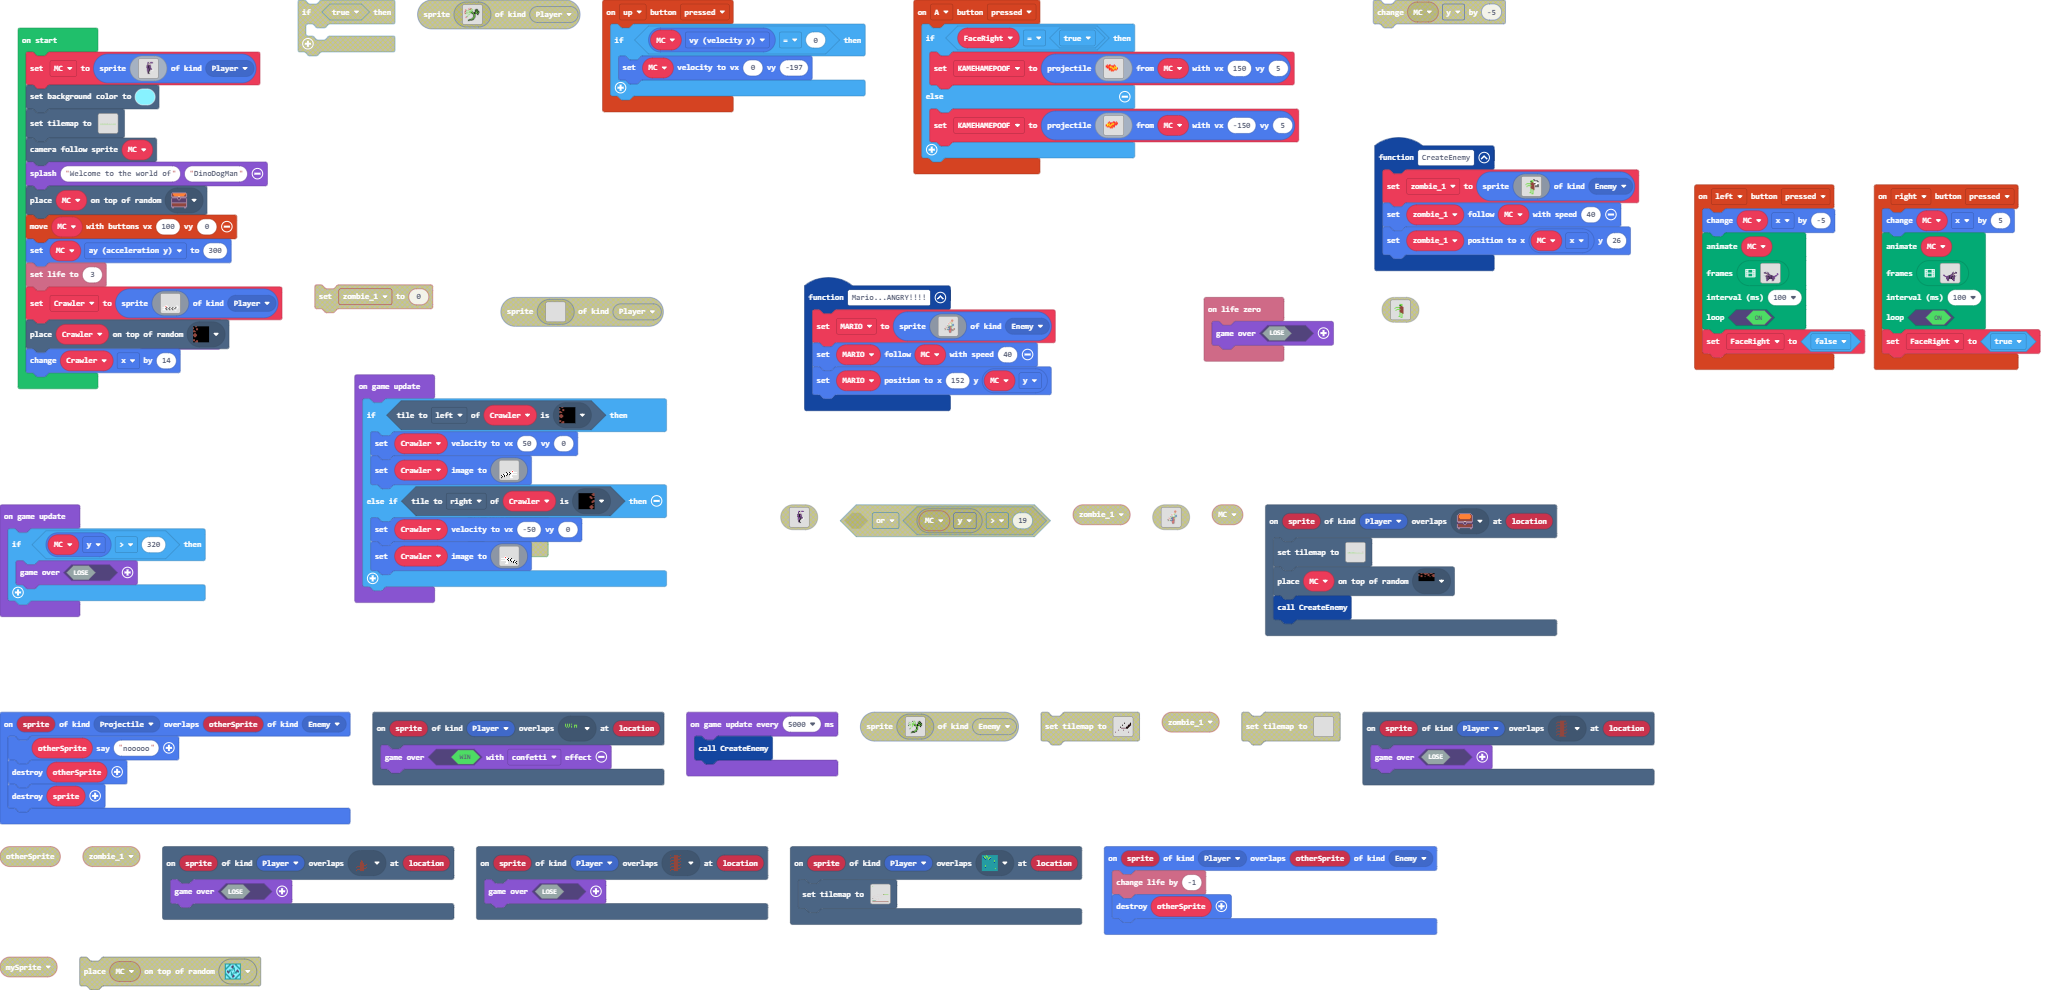
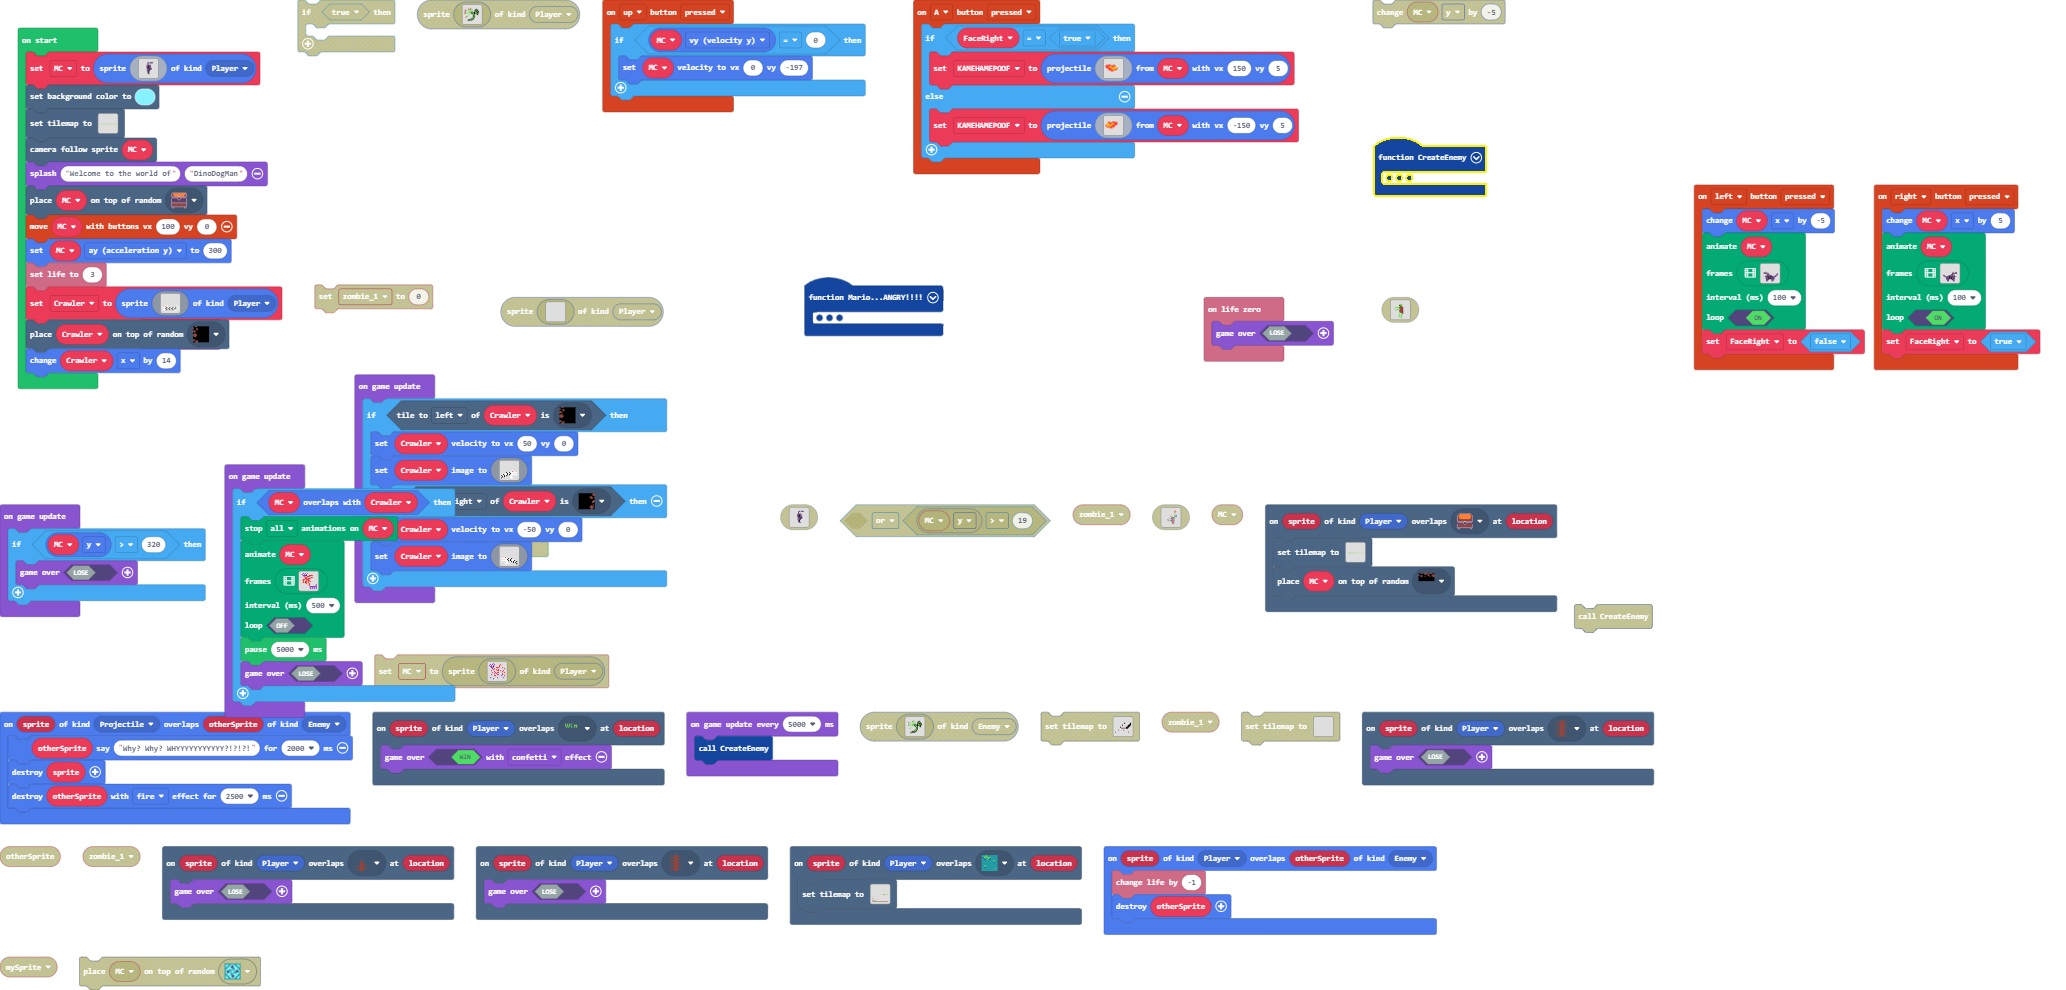
Update pxt.json, main.blocks, main.ts

diff --git a/main.ts b/main.ts
@@ -236,7 +236,7 @@ scene.onOverlapTile(SpriteKind.Player, sprites.castle.tileDarkGrass3, function (
         `, [myTiles.transparency16,myTiles.tile3,sprites.builtin.forestTiles0,myTiles.tile10,sprites.dungeon.floorLight0,myTiles.tile4,sprites.castle.tileGrass1,sprites.dungeon.floorLight1,myTiles.tile7], TileScale.Sixteen))
 })
 scene.onOverlapTile(SpriteKind.Player, sprites.dungeon.chestClosed, function (sprite, location) {
[2 lines of base64/hex data omitted]
         ....................................................................................................
         ......................................2.............................................................
         .....................................2..............................................................
@@ -248,9 +248,9 @@ scene.onOverlapTile(SpriteKind.Player, sprites.dungeon.chestClosed, function (sp
         ............................................................................................2....2.2
         .............................2.................................................................2...2
         ........................2.....................................................................2..2..
-        ....222.............................................................................................
+        ....................................................................................................
         .............................................................................................22..2..
-        22.............................................................................................2....
+        2..............................................................................................2....
         .......2..22..22222.........222222222222222..................................................2...2..
         2222222222222222222222222222222222222222222222222222222...............2222..........................
         2222222222222222222222222222222222222222222222222222222222222222222222222222222..............2..2222
@@ -259,7 +259,6 @@ scene.onOverlapTile(SpriteKind.Player, sprites.dungeon.chestClosed, function (sp
         2222222222222222222222222222222222222222222222222222222222222222222222222222222222222222222222222222
         `, [myTiles.transparency16,myTiles.tile1,myTiles.tile3,myTiles.tile6,sprites.castle.tileGrass1,sprites.builtin.forestTiles0,sprites.dungeon.chestClosed,sprites.dungeon.chestOpen,sprites.dungeon.floorLight2,sprites.dungeon.floorDark2,sprites.builtin.forestTiles18,myTiles.tile7,sprites.castle.tileDarkGrass3], TileScale.Sixteen))
     tiles.placeOnRandomTile(MC, sprites.builtin.forestTiles18)
-    CreateEnemy()
 })
 controller.right.onEvent(ControllerButtonEvent.Pressed, function () {
     MC.x += 5
@@ -366,9 +365,9 @@ scene.onOverlapTile(SpriteKind.Player, myTiles.tile1, function (sprite, location
     game.over(false)
 })
 sprites.onOverlap(SpriteKind.Projectile, SpriteKind.Enemy, function (sprite, otherSprite) {
-    otherSprite.say("nooooo")
-    otherSprite.destroy()
+    otherSprite.say("Why? Why? WHYYYYYYYYYYY?!?!?!", 2000)
     sprite.destroy()
+    otherSprite.destroy(effects.fire, 2500)
 })
 sprites.onOverlap(SpriteKind.Player, SpriteKind.Enemy, function (sprite, otherSprite) {
     info.changeLifeBy(-1)
@@ -414,7 +413,7 @@ MC = sprites.create(img`
     ................................
     `, SpriteKind.Player)
 scene.setBackgroundColor(9)
[2 lines of base64/hex data omitted]
     ....................................................................................................
     ....................................................................................................
     ....................................................................................................
@@ -506,6 +505,36 @@ game.onUpdate(function () {
             . . . . . 1 1 . . . . . f 1 f 1 
             . . . . 1 1 1 . . . . . . . 1 f 
             `)
+    }
+})
+game.onUpdate(function () {
+    if (MC.overlapsWith(Crawler)) {
+        animation.stopAnimation(animation.AnimationTypes.All, MC)
+        animation.runImageAnimation(
+        MC,
+        [img`
+            . . a . a 1 a . . . . . . . . . 
+            . a 1 a 1 a . . . . . . . . . . 
+            . . a a a f . . 2 2 2 2 . . . . 
+            . . . a d d 2 2 2 . . . . . . . 
+            . . . . 2 2 . . . . 2 2 . . . . 
+            . . . . 2 2 . 2 2 2 . . . . . . 
+            . . 2 2 . 2 2 2 . . . . . . . . 
+            . . 2 . . 2 . 2 2 . . . . . . . 
+            . . 2 . 2 2 . 2 . 2 . . . . . . 
+            . . 2 . 2 2 . 2 . . . . . . . . 
+            . . . . . 2 . . 2 . . . . . . . 
+            . . . . . . . . 2 . . . . . . a 
+            . . . . . . . . 2 . . . . . . a 
+            . . . . . . . . . a a a a a a a 
+            . . . . . . . . . a . a . a . a 
+            . . . . . . . . . a . a . a . a 
+            `],
+        500,
+        false
+        )
+        pause(5000)
+        game.over(false)
     }
 })
 game.onUpdate(function () {
